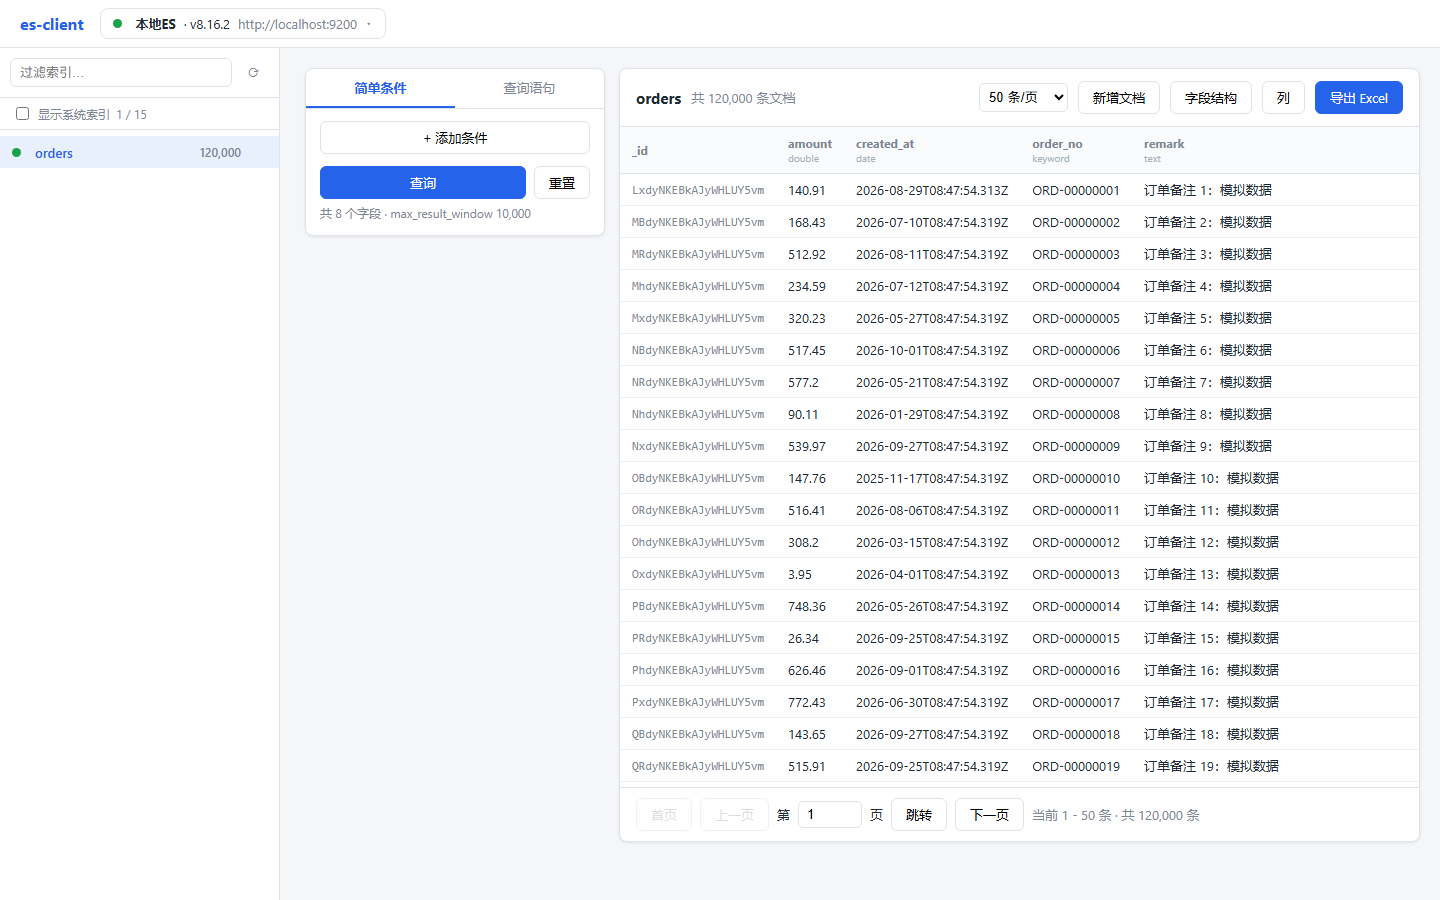
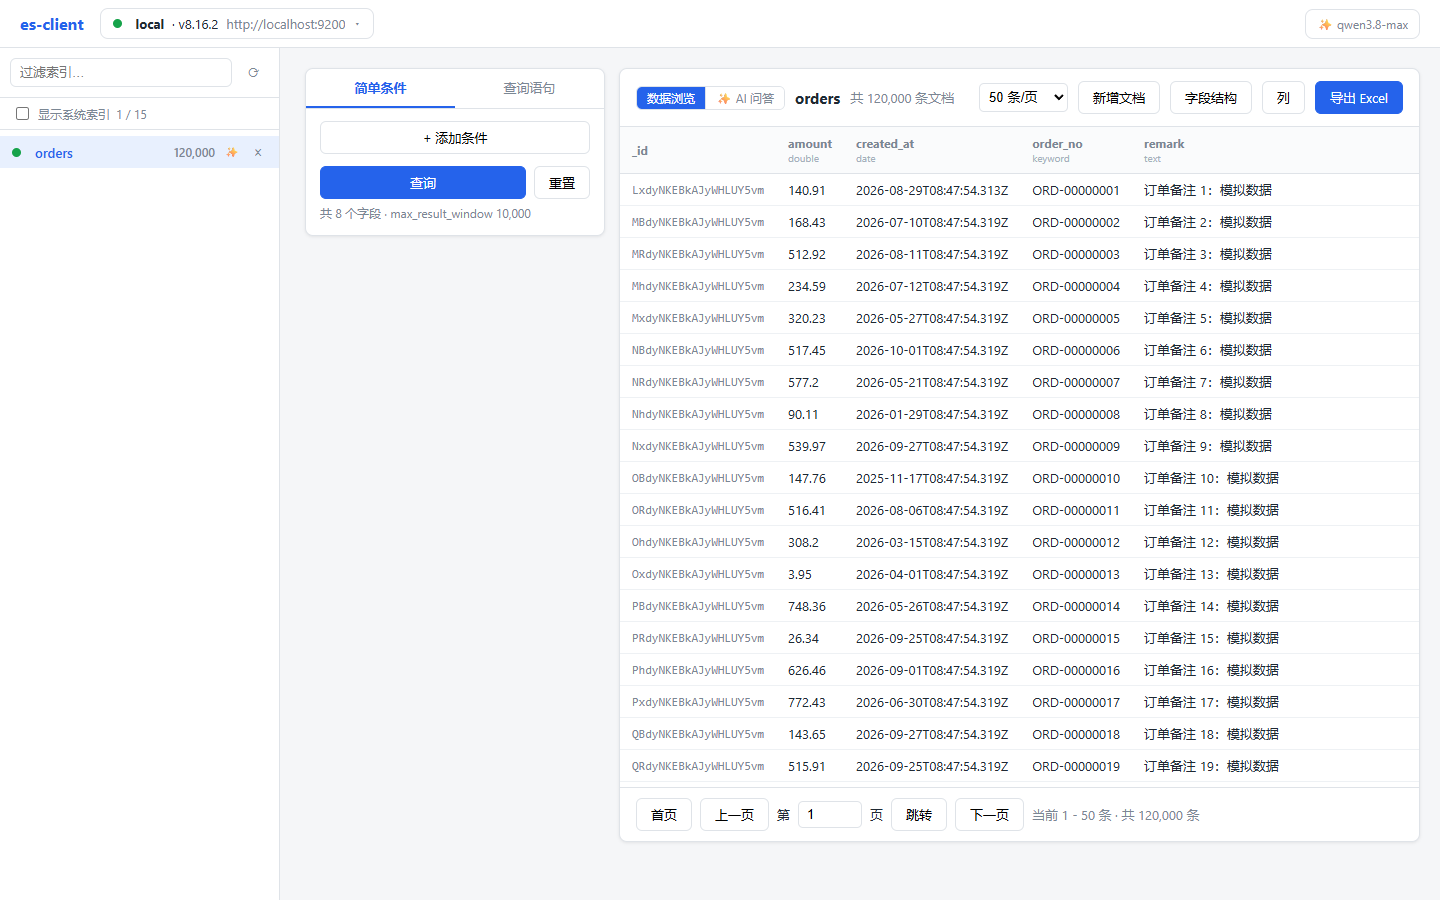
更新 README 截图并补充 AI 问答界面预览

diff --git a/README.md b/README.md
@@ -8,7 +8,11 @@
 
 ![数据浏览](docs/images/browse.png)
 
-**数据浏览**：左侧索引列表（支持过滤、显示/隐藏系统索引），右侧文档表格分页浏览。
+**数据浏览**：左侧索引列表（支持过滤、显示/隐藏系统索引），右侧文档表格分页浏览；顶栏 ✨ 标签可随时切换 AI 模型。
+
+![AI 问答](docs/images/ai-chat.png)
+
+**AI 问答**：针对当前索引用自然语言提问，AI 生成聚合 / 查询 DSL 并执行，流式给出结论与结果表格，桶值可点击下钻，也可一键带入数据浏览查看明细。
 
 <div>
   <img src="docs/images/query.png" width="49%" alt="查询">
@@ -34,7 +38,7 @@
   - query_string 语法
   - DSL(JSON)：直接编写完整查询请求体
   - **AI 生成**：自然语言 → DSL，支持 OpenAI 兼容接口的多模型配置与思考模式
-- **AI 问答**：针对当前索引数据提问（计数、分布、汇总等），AI 生成查询后执行，流式回答并附结果表格；聚合分布可点击桶值直接下钻明细；自动沿用数据浏览中已设置的查询条件；每个索引支持多会话，会话可切换 / 删除，历史保存在服务端
+- **AI 问答**：针对当前索引数据提问（计数、分布、汇总等），AI 生成查询后执行，流式回答并附结果表格；聚合分布可点击桶值直接下钻明细，也可一键带入数据浏览；自动沿用数据浏览中已设置的查询条件；每个索引支持多会话，会话可切换 / 删除，历史保存在服务端
 - **导出 Excel**：基于 MiniExcel 流式写出，可勾选导出列、设置行数上限（单表上限 1,048,575 行）、可选包含 `_id` 列，后台任务执行、随时取消
 
 ## 快速开始
